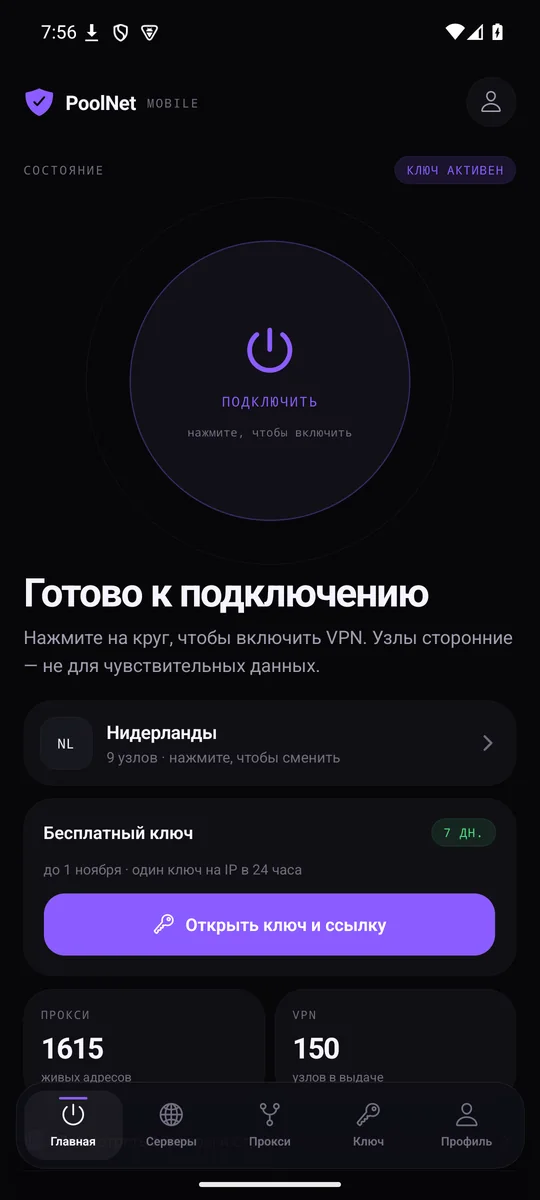
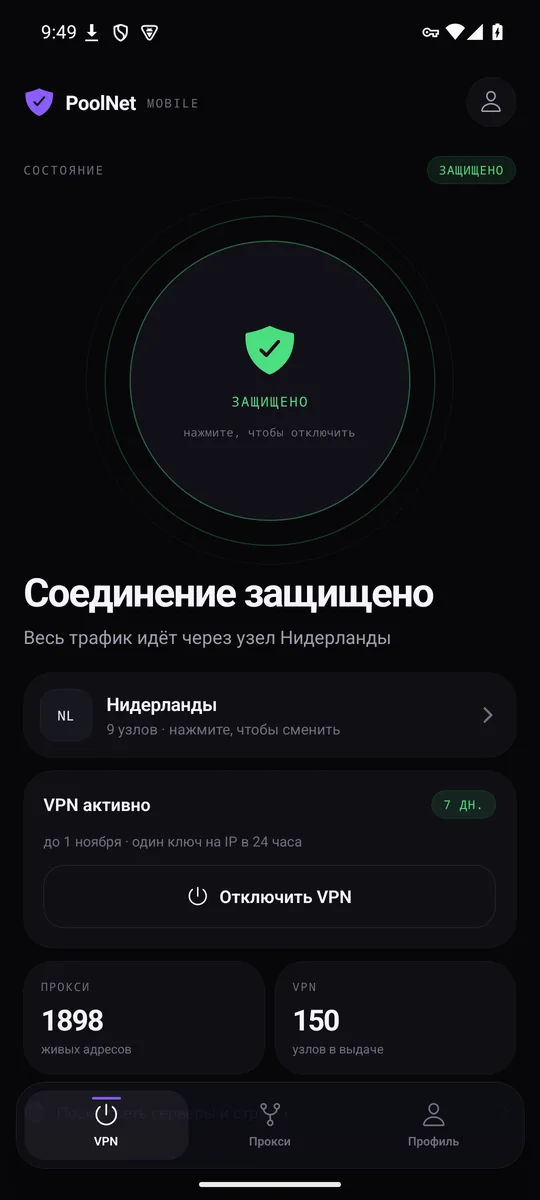
feat(mobile): simplify to three tabs with country/key modals; release 0.3.0

diff --git a/web/site/download.html b/web/site/download.html
@@ -41,7 +41,7 @@
 <div class="dl-kicker"><i></i>Для Android · бесплатно</div>
 <h1>VPN, который<br><span class="grad-txt">не врёт.</span></h1>
 <p class="sub">Бесплатный ключ на 7 дней. Один тап — и трафик идёт через проверенный узел. Без аккаунта, подписок и рекламы.</p>
-<div class="dl-actions"><a class="btn btn-1 dl-cta" href="https://github.com/evgen1yby-glitch/poolnet/releases/download/mobile-v0.2.0/PoolNet-Mobile-0.2.0.apk" download>Скачать APK</a><span class="dl-size"><b>Android 7+ · 139 МБ</b></span></div>
+<div class="dl-actions"><a class="btn btn-1 dl-cta" href="https://github.com/evgen1yby-glitch/poolnet/releases/download/mobile-v0.3.0/PoolNet-Mobile-0.3.0.apk" download>Скачать APK</a><span class="dl-size"><b>Android 7+ · 139 МБ</b></span></div>
 <ul class="dl-trust"><li>Без аккаунта</li><li>7 дней бесплатно</li><li>Проверено соединением</li></ul>
 </div>
 <div class="dl-phone-wrap"><div class="dl-phone"><img src="/assets/app-home.webp" alt="PoolNet для Android — бесплатный VPN на 7 дней"></div><div class="dl-phone-note"><b>Ключ активен</b>7 дней бесплатно</div></div>
@@ -49,10 +49,10 @@
 <section class="dl-section"><div class="wrap"><div class="dl-head"><div class="pk">Почему PoolNet</div><h2>Ничего лишнего. Только рабочий VPN.</h2><p>Мы не продаём подписки и не просим данные. Вы получаете ключ и подключаетесь.</p></div><div class="dl-grid"><div class="dl-card"><div class="num">01</div><h3>Без аккаунта</h3><p>Ни email, ни телефона. Скачали и пользуетесь.</p></div><div class="dl-card"><div class="num">02</div><h3>Честные 7 дней</h3><p>Бесплатный ключ без оплаты и автосписаний.</p></div><div class="dl-card"><div class="num">03</div><h3>Проверено</h3><p>Узлы проходят реальные TCP, TLS и HTTP-проверки.</p></div></div></div></section>
 <section class="dl-section"><div class="wrap"><div class="dl-head"><div class="pk">Приложение</div><h2>Весь пул в кармане</h2><p>Подключение, страны, ключ и прокси — в одном приложении.</p></div><div class="dl-shots"><div class="dl-shot"><img src="/assets/app-home.webp" alt="Подключение в один тап" loading="lazy"><span>Подключение в один тап</span></div><div class="dl-shot"><img src="/assets/app-servers.webp" alt="Страны и узлы" loading="lazy"><span>Страны и узлы</span></div><div class="dl-shot"><img src="/assets/app-key.webp" alt="Ключ и срок" loading="lazy"><span>Ключ и срок</span></div></div></div></section>
 <section class="dl-section"><div class="wrap"><div class="dl-head"><div class="pk">Как начать</div><h2>Три шага — и вы в сети</h2></div><div class="dl-steps"><div class="dl-step"><h3>Скачайте APK</h3><p>Нажмите кнопку. Android спросит разрешение — это нормально для установки с сайта.</p></div><div class="dl-step"><h3>Получите ключ</h3><p>Откройте «Ключ» и нажмите «Получить». Займёт несколько секунд.</p></div><div class="dl-step"><h3>Подключитесь</h3><p>Выберите страну и нажмите на круг. Готово.</p></div></div></div></section>
-<section class="dl-section"><div class="wrap"><div class="dl-head"><div class="pk">Вопросы</div><h2>Коротко о главном</h2></div><div class="dl-faq"><details><summary>Это правда бесплатно?</summary><p>Да. Ключ на 7 дней, без оплаты. После окончания можно получить новый — не чаще одного раза в 24 часа.</p></details><details><summary>Нужен аккаунт?</summary><p>Нет. Приложение не просит email, телефон или профиль.</p></details><details><summary>Есть версия для iPhone?</summary><p>Пока нет. Сейчас приложение доступно для Android.</p></details><details><summary>Почему не из Google Play?</summary><p>Мы распространяем APK с сайта. Android предупредит об установке из неизвестного источника — это ожидаемо.</p></details><details><summary>Это безопасно?</summary><p>Узлы публичные и сторонние. Не используйте их для чувствительных данных. PoolNet не оператор узлов.</p></details><details><summary>Как обновить приложение?</summary><p>Скачайте новый APK с этой страницы. Ключ и настройки сохранятся.</p></details></div><details class="dl-check"><summary>Проверка файла</summary><p>Версия 0.2.0 · Android 7+ · 139 МБ<br>SHA-256: <span class="mono">8db303bb957c77cee9c227259f416b877d1b73bb4bdc8274532cbb5725daffd5</span><br><a href="https://github.com/evgen1yby-glitch/poolnet/releases/tag/mobile-v0.2.0" target="_blank" rel="noopener">Release notes</a></p></details></div></section>
-<section class="dl-section" style="border-top:0"><div class="wrap"><div class="dl-final"><div><h2>Попробуйте PoolNet</h2><p>7 дней. Без аккаунта. Без оплаты.</p></div><a class="btn btn-1" href="https://github.com/evgen1yby-glitch/poolnet/releases/download/mobile-v0.2.0/PoolNet-Mobile-0.2.0.apk" download>Скачать APK</a></div></div></section>
+<section class="dl-section"><div class="wrap"><div class="dl-head"><div class="pk">Вопросы</div><h2>Коротко о главном</h2></div><div class="dl-faq"><details><summary>Это правда бесплатно?</summary><p>Да. Ключ на 7 дней, без оплаты. После окончания можно получить новый — не чаще одного раза в 24 часа.</p></details><details><summary>Нужен аккаунт?</summary><p>Нет. Приложение не просит email, телефон или профиль.</p></details><details><summary>Есть версия для iPhone?</summary><p>Пока нет. Сейчас приложение доступно для Android.</p></details><details><summary>Почему не из Google Play?</summary><p>Мы распространяем APK с сайта. Android предупредит об установке из неизвестного источника — это ожидаемо.</p></details><details><summary>Это безопасно?</summary><p>Узлы публичные и сторонние. Не используйте их для чувствительных данных. PoolNet не оператор узлов.</p></details><details><summary>Как обновить приложение?</summary><p>Скачайте новый APK с этой страницы. Ключ и настройки сохранятся.</p></details></div><details class="dl-check"><summary>Проверка файла</summary><p>Версия 0.3.0 · Android 7+ · 139 МБ<br>SHA-256: <span class="mono">97bda57c5fba600edd92e9f5a39bfe7795c52fad197b8cb8a940338f66d3332e</span><br><a href="https://github.com/evgen1yby-glitch/poolnet/releases/tag/mobile-v0.3.0" target="_blank" rel="noopener">Release notes</a></p></details></div></section>
+<section class="dl-section" style="border-top:0"><div class="wrap"><div class="dl-final"><div><h2>Попробуйте PoolNet</h2><p>7 дней. Без аккаунта. Без оплаты.</p></div><a class="btn btn-1" href="https://github.com/evgen1yby-glitch/poolnet/releases/download/mobile-v0.3.0/PoolNet-Mobile-0.3.0.apk" download>Скачать APK</a></div></div></section>
 </main>
 <footer class="site"><div class="wrap foot"><div><div class="fbrand"><img class="logo-img" src="/assets/logo.png" srcset="/assets/logo-64.png 64w, /assets/logo-96.png 96w, /assets/logo.png 512w" sizes="1.5rem" alt="" width="32" height="32"><span>PoolNet</span></div><p>Публичный каталог узлов. Соединение клиент—узел устанавливается напрямую; мы не оператор узлов. <a href="https://poolnet.online/legal">Условия</a>.</p><p class="cop">© 2026 PoolNet</p></div><nav aria-label="Ссылки"><a href="https://poolnet.online/">Главная</a><a href="https://poolnet.online/vpn">VPN</a><a href="https://poolnet.online/free">Ключ</a><a href="https://poolnet.online/download">Приложение</a></nav></div></footer>
-<div class="dl-sticky"><span>Бесплатный VPN</span><a class="btn btn-1" href="https://github.com/evgen1yby-glitch/poolnet/releases/download/mobile-v0.2.0/PoolNet-Mobile-0.2.0.apk" download>Скачать APK</a></div>
+<div class="dl-sticky"><span>Бесплатный VPN</span><a class="btn btn-1" href="https://github.com/evgen1yby-glitch/poolnet/releases/download/mobile-v0.3.0/PoolNet-Mobile-0.3.0.apk" download>Скачать APK</a></div>
 </body>
 </html>

diff --git a/web/site/en/download.html b/web/site/en/download.html
@@ -41,7 +41,7 @@
 <div class="dl-kicker"><i></i>For Android · free</div>
 <h1>A VPN that<br><span class="grad-txt">doesn’t lie.</span></h1>
 <p class="sub">A free 7-day key. One tap and your traffic goes through a verified node. No account, no subscriptions, no ads.</p>
-<div class="dl-actions"><a class="btn btn-1 dl-cta" href="https://github.com/evgen1yby-glitch/poolnet/releases/download/mobile-v0.2.0/PoolNet-Mobile-0.2.0.apk" download>Download APK</a><span class="dl-size"><b>Android 7+ · 139 MB</b></span></div>
+<div class="dl-actions"><a class="btn btn-1 dl-cta" href="https://github.com/evgen1yby-glitch/poolnet/releases/download/mobile-v0.3.0/PoolNet-Mobile-0.3.0.apk" download>Download APK</a><span class="dl-size"><b>Android 7+ · 139 MB</b></span></div>
 <ul class="dl-trust"><li>No account</li><li>7 days free</li><li>Verified by connection</li></ul>
 </div>
 <div class="dl-phone-wrap"><div class="dl-phone"><img src="/assets/app-home.webp" alt="PoolNet for Android — free VPN for 7 days"></div><div class="dl-phone-note"><b>Key active</b>7 days free</div></div>
@@ -49,10 +49,10 @@
 <section class="dl-section"><div class="wrap"><div class="dl-head"><div class="pk">Why PoolNet</div><h2>Nothing extra. Just a VPN that works.</h2><p>We don’t sell subscriptions or ask for data. You get a key and connect.</p></div><div class="dl-grid"><div class="dl-card"><div class="num">01</div><h3>No account</h3><p>No email or phone. Download and use it.</p></div><div class="dl-card"><div class="num">02</div><h3>Honest 7 days</h3><p>A free key with no payment or auto-renewal.</p></div><div class="dl-card"><div class="num">03</div><h3>Verified</h3><p>Nodes pass real TCP, TLS and HTTP checks.</p></div></div></div></section>
 <section class="dl-section"><div class="wrap"><div class="dl-head"><div class="pk">The app</div><h2>The whole pool in your pocket</h2><p>Connection, countries, key and proxies in one app.</p></div><div class="dl-shots"><div class="dl-shot"><img src="/assets/app-home.webp" alt="One-tap connection" loading="lazy"><span>One-tap connection</span></div><div class="dl-shot"><img src="/assets/app-servers.webp" alt="Countries and nodes" loading="lazy"><span>Countries and nodes</span></div><div class="dl-shot"><img src="/assets/app-key.webp" alt="Key and term" loading="lazy"><span>Key and term</span></div></div></div></section>
 <section class="dl-section"><div class="wrap"><div class="dl-head"><div class="pk">Get started</div><h2>Three steps and you’re online</h2></div><div class="dl-steps"><div class="dl-step"><h3>Download the APK</h3><p>Tap the button. Android asks for permission — expected when installing outside a store.</p></div><div class="dl-step"><h3>Get a key</h3><p>Open “Key” and tap “Get”. It takes a few seconds.</p></div><div class="dl-step"><h3>Connect</h3><p>Choose a country and tap the circle. Done.</p></div></div></div></section>
-<section class="dl-section"><div class="wrap"><div class="dl-head"><div class="pk">Questions</div><h2>The short version</h2></div><div class="dl-faq"><details><summary>Is it really free?</summary><p>Yes. A 7-day key with no payment. After it expires you can get a new one, at most once per 24 hours.</p></details><details><summary>Do I need an account?</summary><p>No. The app does not ask for an email, phone or profile.</p></details><details><summary>Is there an iPhone version?</summary><p>Not yet. The app is currently available for Android.</p></details><details><summary>Why not from Google Play?</summary><p>We distribute the APK from this site. Android warns about installing from an unknown source — that is expected.</p></details><details><summary>Is it safe?</summary><p>Nodes are public and third-party. Do not use them for sensitive data. PoolNet is not the node operator.</p></details><details><summary>How do I update?</summary><p>Download the new APK from this page. Your key and settings stay in place.</p></details></div><details class="dl-check"><summary>File details</summary><p>Version 0.2.0 · Android 7+ · 139 MB<br>SHA-256: <span class="mono">8db303bb957c77cee9c227259f416b877d1b73bb4bdc8274532cbb5725daffd5</span><br><a href="https://github.com/evgen1yby-glitch/poolnet/releases/tag/mobile-v0.2.0" target="_blank" rel="noopener">Release notes</a></p></details></div></section>
-<section class="dl-section" style="border-top:0"><div class="wrap"><div class="dl-final"><div><h2>Try PoolNet</h2><p>7 days. No account. No payment.</p></div><a class="btn btn-1" href="https://github.com/evgen1yby-glitch/poolnet/releases/download/mobile-v0.2.0/PoolNet-Mobile-0.2.0.apk" download>Download APK</a></div></div></section>
+<section class="dl-section"><div class="wrap"><div class="dl-head"><div class="pk">Questions</div><h2>The short version</h2></div><div class="dl-faq"><details><summary>Is it really free?</summary><p>Yes. A 7-day key with no payment. After it expires you can get a new one, at most once per 24 hours.</p></details><details><summary>Do I need an account?</summary><p>No. The app does not ask for an email, phone or profile.</p></details><details><summary>Is there an iPhone version?</summary><p>Not yet. The app is currently available for Android.</p></details><details><summary>Why not from Google Play?</summary><p>We distribute the APK from this site. Android warns about installing from an unknown source — that is expected.</p></details><details><summary>Is it safe?</summary><p>Nodes are public and third-party. Do not use them for sensitive data. PoolNet is not the node operator.</p></details><details><summary>How do I update?</summary><p>Download the new APK from this page. Your key and settings stay in place.</p></details></div><details class="dl-check"><summary>File details</summary><p>Version 0.3.0 · Android 7+ · 139 MB<br>SHA-256: <span class="mono">97bda57c5fba600edd92e9f5a39bfe7795c52fad197b8cb8a940338f66d3332e</span><br><a href="https://github.com/evgen1yby-glitch/poolnet/releases/tag/mobile-v0.3.0" target="_blank" rel="noopener">Release notes</a></p></details></div></section>
+<section class="dl-section" style="border-top:0"><div class="wrap"><div class="dl-final"><div><h2>Try PoolNet</h2><p>7 days. No account. No payment.</p></div><a class="btn btn-1" href="https://github.com/evgen1yby-glitch/poolnet/releases/download/mobile-v0.3.0/PoolNet-Mobile-0.3.0.apk" download>Download APK</a></div></div></section>
 </main>
 <footer class="site"><div class="wrap foot"><div><div class="fbrand"><img class="logo-img" src="/assets/logo.png" srcset="/assets/logo-64.png 64w, /assets/logo-96.png 96w, /assets/logo.png 512w" sizes="1.5rem" alt="" width="32" height="32"><span>PoolNet</span></div><p>A public node catalog. Connections go directly from the client to the node; we do not operate the nodes. <a href="https://poolnet.online/en/legal">Terms</a>.</p><p class="cop">© 2026 PoolNet</p></div><nav aria-label="Links"><a href="https://poolnet.online/en/">Home</a><a href="https://poolnet.online/en/vpn">VPN</a><a href="https://poolnet.online/en/free">Key</a><a href="https://poolnet.online/en/download">App</a></nav></div></footer>
-<div class="dl-sticky"><span>Free VPN</span><a class="btn btn-1" href="https://github.com/evgen1yby-glitch/poolnet/releases/download/mobile-v0.2.0/PoolNet-Mobile-0.2.0.apk" download>Download APK</a></div>
+<div class="dl-sticky"><span>Free VPN</span><a class="btn btn-1" href="https://github.com/evgen1yby-glitch/poolnet/releases/download/mobile-v0.3.0/PoolNet-Mobile-0.3.0.apk" download>Download APK</a></div>
 </body>
 </html>

diff --git a/mobile/src/lib/xray.ts b/mobile/src/lib/xray.ts
@@ -14,6 +14,33 @@ function asConfigs(payload: unknown): XrayConfig[] {
   return [];
 }
 
+type Routing = Record<string, unknown> & {
+  rules?: Record<string, unknown>[];
+  balancers?: Record<string, unknown>[];
+};
+
+function buildRouting(source: unknown, fallbackTag: string): Routing {
+  const routing = (source && typeof source === 'object' ? { ...(source as Routing) } : {}) as Routing;
+  const rules = Array.isArray(routing.rules) ? [...routing.rules] : [];
+  // DNS via the physical link avoids a dead remote DNS path; it is a known
+  // beta trade-off and is documented in the release notes.
+  rules.unshift({ type: 'field', port: '53,853', outboundTag: 'direct' });
+  const balancers = Array.isArray(routing.balancers) ? routing.balancers : [];
+  if (balancers.length) {
+    routing.balancers = balancers.map((balancer) => ({
+      ...balancer,
+      fallbackTag: (balancer.fallbackTag as string | undefined) || fallbackTag,
+    }));
+    routing.rules = rules;
+  } else {
+    routing.rules = [
+      { type: 'field', ip: ['10.0.0.0/8', '172.16.0.0/12', '192.168.0.0/16', '127.0.0.0/8', '169.254.0.0/16', '100.64.0.0/10'], outboundTag: 'direct' },
+      { type: 'field', network: 'tcp,udp', outboundTag: fallbackTag },
+    ];
+  }
+  return routing;
+}
+
 /**
  * Build a TUN config from the same Xray payload the website hands out.
  * The server returns one config per country; choose the selected country by
@@ -55,18 +82,11 @@ export async function buildXrayConfig(subscriptionUrl: string, country?: string 
         sniffing: { enabled: true, destOverride: ['http', 'tls', 'quic'] },
       },
     ],
-    // PoolNet's server config uses a least-ping balancer. Xray Core's mobile
-    // build can report an empty balancer before observatory data exists, which
-    // leaves every packet on the direct path. Pin the first node in this
-    // country instead; the UI already represents one selected country.
-    routing: {
-      domainStrategy: 'AsIs',
-      rules: [
-        { type: 'field', port: '53,853', outboundTag: 'direct' },
-        { type: 'field', ip: ['10.0.0.0/8', '172.16.0.0/12', '192.168.0.0/16', '127.0.0.0/8', '169.254.0.0/16', '100.64.0.0/10', '::1/128', 'fc00::/7', 'fe80::/10'], outboundTag: 'direct' },
-        { type: 'field', network: 'tcp,udp', outboundTag: String(proxy.tag) },
-      ],
-    },
+    // Keep the server's least-ping balancer, but give it a fallback. Before
+    // the observatory produces its first sample Xray returns an empty tag;
+    // without `fallbackTag` that left the whole tunnel on the direct path.
+    // DNS stays direct for reliability; other traffic goes through the balancer.
+    routing: buildRouting(config.routing, String(proxy.tag)),
   };
   delete clean.remarks;
   return JSON.stringify(clean);

diff --git a/mobile/src/app/(tabs)/index.tsx b/mobile/src/app/(tabs)/index.tsx
@@ -79,11 +79,11 @@ export default function HomeScreen() {
 
   const onOrb = () => {
     if (!hasKey) {
-      router.push('/(tabs)/key');
+      router.push('/key');
       return;
     }
     if (!tunnelSupported) {
-      router.push('/(tabs)/key');
+      router.push('/key');
       return;
     }
     if (connected) {
@@ -137,7 +137,7 @@ export default function HomeScreen() {
         </View>
 
         <Pressable
-          onPress={() => (hasKey ? router.push('/(tabs)/servers') : router.push('/(tabs)/key'))}
+          onPress={() => (hasKey ? router.push('/servers') : router.push('/key'))}
           style={[styles.serverRow, { backgroundColor: theme.surface, borderColor: theme.line }]}>
           <View style={[styles.cc, { backgroundColor: theme.surface2, borderColor: theme.line }]}>
             <Text style={[styles.ccText, { color: theme.text }]}>{country?.cc ?? 'AUTO'}</Text>
@@ -162,13 +162,13 @@ export default function HomeScreen() {
             </Text>
             <PrimaryButton
               label={connected ? 'Отключить VPN' : 'Открыть ключ и ссылку'}
-              onPress={() => (connected ? void disconnect() : router.push('/(tabs)/key'))}
+              onPress={() => (connected ? void disconnect() : router.push('/key'))}
               tone={connected ? 'ghost' : 'accent'}
               icon={connected ? 'power-outline' : 'key-outline'}
             />
           </Card>
         ) : (
-          <PrimaryButton label="Получить бесплатный ключ" onPress={() => router.push('/(tabs)/key')} />
+          <PrimaryButton label="Получить бесплатный ключ" onPress={() => router.push('/key')} />
         )}
 
         <View style={styles.statsRow}>
@@ -184,7 +184,7 @@ export default function HomeScreen() {
           </Card>
         </View>
 
-        <Pressable onPress={() => router.push('/(tabs)/servers')} style={[styles.linkRow, { borderColor: theme.line }]}>
+        <Pressable onPress={() => router.push('/servers')} style={[styles.linkRow, { borderColor: theme.line }]}>
           <Ionicons name="globe-outline" size={17} color={theme.accent} />
           <Text style={[styles.linkText, { color: theme.muted }]}>Посмотреть серверы и страны</Text>
           <Ionicons name="chevron-forward" size={16} color={theme.dim} />

diff --git a/mobile/src/app/key.tsx b/mobile/src/app/key.tsx
@@ -5,7 +5,8 @@ import * as Haptics from 'expo-haptics';
 import { useEffect, useRef, useState } from 'react';
 import { Pressable, StyleSheet, Text, View } from 'react-native';
 
-import { AppBar, Card, ErrorState, Eyebrow, Lead, Pill, PrimaryButton, ProfileButton, Screen, Title } from '@/components/ui';
+import { useRouter } from 'expo-router';
+import { AppBar, Card, CloseButton, ErrorState, Eyebrow, Lead, Pill, PrimaryButton, Screen, Title } from '@/components/ui';
 import { api, ApiError } from '@/lib/api';
 import { daysLeft, formatDate, formatRetry } from '@/lib/format';
 import { useAppStore } from '@/store/app';
@@ -13,6 +14,7 @@ import { useTheme } from '@/theme';
 
 export default function KeyScreen() {
   const theme = useTheme();
+  const router = useRouter();
   const queryClient = useQueryClient();
   const subscription = useAppStore((state) => state.subscription);
   const country = useAppStore((state) => state.country);
@@ -84,7 +86,7 @@ export default function KeyScreen() {
 
   return (
     <>
-      <AppBar right={<ProfileButton />} />
+      <AppBar right={<CloseButton />} />
       <Screen>
         <Eyebrow>ПОДПИСКА</Eyebrow>
         <Title>Ключ</Title>
@@ -117,6 +119,7 @@ export default function KeyScreen() {
               <PrimaryButton label={copied ? 'Скопировано' : 'Скопировать ссылку'} onPress={() => void copy()} icon="copy-outline" />
             </Card>
 
+            <PrimaryButton label="Готово — к подключению" onPress={() => router.back()} tone="ghost" />
             <Text style={[styles.section, { color: theme.text }]}>Как подключить</Text>
             <View style={styles.steps}>
               {[

diff --git a/mobile/src/app/servers.tsx b/mobile/src/app/servers.tsx
@@ -3,7 +3,8 @@ import { useQuery } from '@tanstack/react-query';
 import { useMemo, useState } from 'react';
 import { Pressable, StyleSheet, Text, View } from 'react-native';
 
-import { AppBar, Card, Chip, Empty, ErrorState, Eyebrow, Lead, Pill, ProfileButton, Screen, SearchField, Title } from '@/components/ui';
+import { AppBar, Card, Chip, Empty, ErrorState, Eyebrow, Lead, Pill, CloseButton, Screen, SearchField, Title } from '@/components/ui';
+import { useRouter } from 'expo-router';
 import { api } from '@/lib/api';
 import { countryName } from '@/lib/format';
 import { useAppStore } from '@/store/app';
@@ -11,6 +12,7 @@ import { radius, useTheme } from '@/theme';
 
 export default function ServersScreen() {
   const theme = useTheme();
+  const router = useRouter();
   const country = useAppStore((state) => state.country);
   const setCountry = useAppStore((state) => state.setCountry);
   const status = useQuery({ queryKey: ['status'], queryFn: api.status });
@@ -33,12 +35,12 @@ export default function ServersScreen() {
   }, [favorites, filter, query, status.data?.vpn.by_country]);
 
   const select = (value: { cc: string; name: string; nodes: number }) => {
-    void setCountry(value);
+    void setCountry(value).then(() => router.back());
   };
 
   return (
     <>
-      <AppBar right={<ProfileButton />} />
+      <AppBar right={<CloseButton />} />
       <Screen>
         <View style={styles.topline}>
           <Eyebrow>ВЫБОР СТРАНЫ</Eyebrow>

diff --git a/mobile/src/components/ui.tsx b/mobile/src/components/ui.tsx
@@ -34,7 +34,7 @@ export function Screen({
     <View
       style={[
         padded && { paddingHorizontal: 18 },
-        { paddingTop: 8, paddingBottom: 112 + insets.bottom, gap: 0 },
+        { paddingTop: 8, paddingBottom: 132 + insets.bottom, gap: 0 },
         style,
       ]}>
       {children}
@@ -64,6 +64,23 @@ export function AppBar({ right }: { right?: ReactNode }) {
       </View>
       {right}
     </View>
+  );
+}
+
+export function CloseButton() {
+  const theme = useTheme();
+  const router = useRouter();
+  return (
+    <Pressable
+      accessibilityRole="button"
+      accessibilityLabel="Закрыть"
+      onPress={() => router.back()}
+      style={({ pressed }) => [
+        styles.iconButton,
+        { backgroundColor: theme.surface, borderColor: theme.line, opacity: pressed ? 0.65 : 1 },
+      ]}>
+      <Ionicons name="close" size={20} color={theme.muted} />
+    </Pressable>
   );
 }
 

diff --git a/mobile/src/components/tab-bar.tsx b/mobile/src/components/tab-bar.tsx
@@ -13,10 +13,8 @@ type TabBarProps = {
 };
 
 const ITEMS: { name: string; label: string; icon: keyof typeof Ionicons.glyphMap }[] = [
-  { name: 'index', label: 'Главная', icon: 'power-outline' },
-  { name: 'servers', label: 'Серверы', icon: 'globe-outline' },
+  { name: 'index', label: 'VPN', icon: 'power-outline' },
   { name: 'proxy', label: 'Прокси', icon: 'git-network-outline' },
-  { name: 'key', label: 'Ключ', icon: 'key-outline' },
   { name: 'profile', label: 'Профиль', icon: 'person-outline' },
 ];
 

diff --git a/mobile/src/app/(tabs)/_layout.tsx b/mobile/src/app/(tabs)/_layout.tsx
@@ -6,9 +6,7 @@ export default function TabsLayout() {
   return (
     <Tabs screenOptions={{ headerShown: false }} tabBar={(props) => <TabBar {...props} />}>
       <Tabs.Screen name="index" options={{ title: 'Главная' }} />
-      <Tabs.Screen name="servers" options={{ title: 'Серверы' }} />
       <Tabs.Screen name="proxy" options={{ title: 'Прокси' }} />
-      <Tabs.Screen name="key" options={{ title: 'Ключ' }} />
       <Tabs.Screen name="profile" options={{ title: 'Профиль' }} />
     </Tabs>
   );

diff --git a/mobile/src/app/onboarding.tsx b/mobile/src/app/onboarding.tsx
@@ -42,7 +42,7 @@ export default function OnboardingScreen() {
         </View>
         <View style={styles.cta}>
           <PrimaryButton label="Начать" onPress={() => router.replace('/(tabs)')} />
-          <PrimaryButton label="У меня уже есть ключ" tone="ghost" onPress={() => router.replace('/(tabs)/key')} />
+          <PrimaryButton label="У меня уже есть ключ" tone="ghost" onPress={() => router.replace('/key')} />
         </View>
       </View>
     </SafeAreaView>

diff --git a/mobile/src/app/_layout.tsx b/mobile/src/app/_layout.tsx
@@ -49,6 +49,8 @@ export default function RootLayout() {
                 animation: 'fade',
               }}>
               <Stack.Screen name="(tabs)" />
+              <Stack.Screen name="servers" options={{ presentation: 'modal' }} />
+              <Stack.Screen name="key" options={{ presentation: 'modal' }} />
               <Stack.Screen name="onboarding" options={{ presentation: 'fullScreenModal' }} />
             </Stack>
           </View>

diff --git a/mobile/src/lib/format.ts b/mobile/src/lib/format.ts
@@ -31,7 +31,7 @@ export function countryName(cc: string): string {
 export function daysLeft(iso: string): number {
   const end = new Date(iso).getTime();
   if (!Number.isFinite(end)) return 0;
-  return Math.max(0, Math.ceil((end - Date.now()) / 86_400_000));
+  return Math.max(0, Math.min(7, Math.ceil((end - Date.now()) / 86_400_000)));
 }
 
 export function formatRetry(seconds: number): string {
